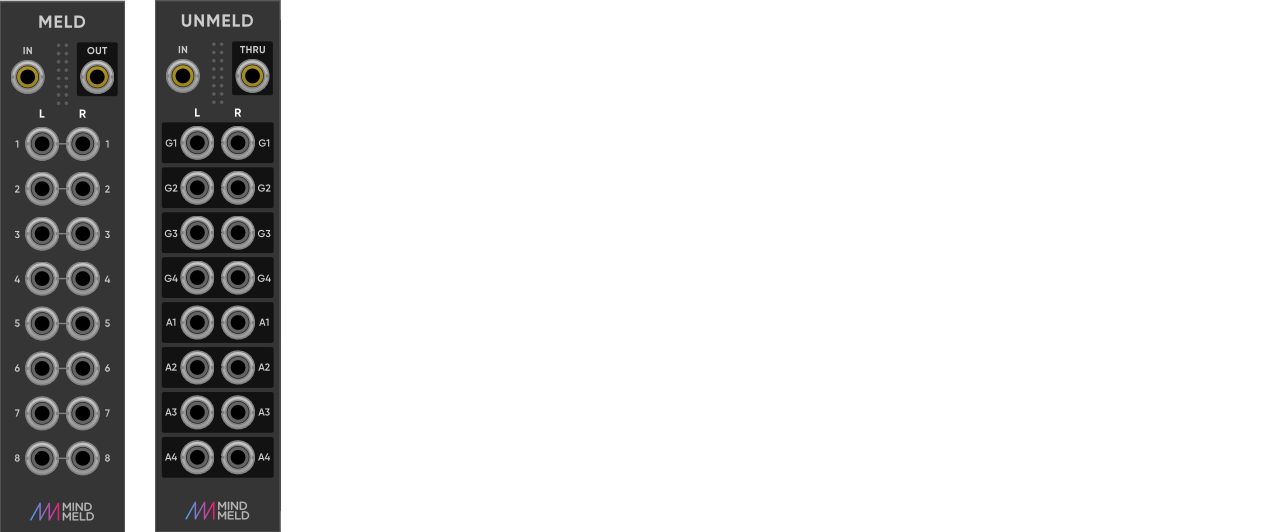
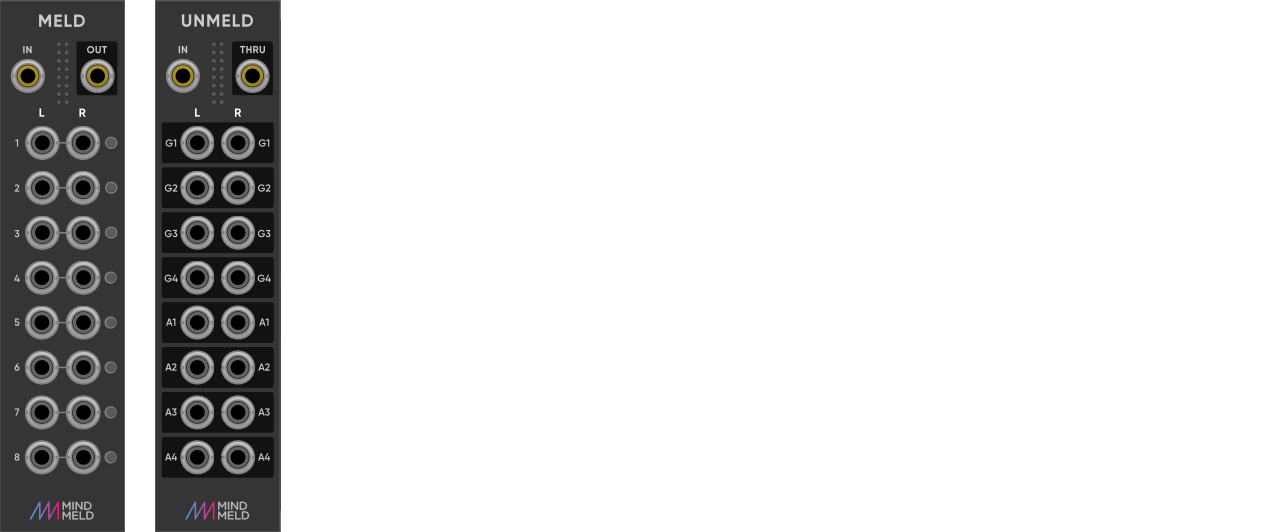
prepare github manual update, in comments for now

diff --git a/README.md b/README.md
@@ -8,6 +8,7 @@ Version 1.1.2
 
 [//]: # (!!!!!UPDATE VERSION NUMBER IN PLUGIN.JSON ALSO!!!!!   140% Zoom for pngs, all size of MixMaster.png, use transparency)
 
+
 # Modules <a id="modules"></a>
 
 The following modules are part of the MindMeld module pack.
@@ -16,6 +17,15 @@ The following modules are part of the MindMeld module pack.
 
 * [AuxSpander](#auxspander): 4-aux FX bus expander for MixMaster, see MixMaster manual above.
 
+<!---
+
+* [MixMasterJr](#mixmasterjr): 8-track stereo mixer with 2 group busses, see MixMaster manual above.
+
+* [AuxSpanderJr](#auxspanderjr): 4-aux FX bus expander for MixMasterJr, see MixMaster manual above.
+
+* [Meld / Unmeld](#meldunmeld): Utility modules for MixMaster and MixMasterJr.
+
+-->
 
 ## MixMaster <a id="mixmaster"></a>
 
@@ -53,8 +63,31 @@ Many labels contain separate menus that are different from the module's main men
 
 4-aux FX bus expander for MixMaster, must be placed immediately to the right of the MixMaster module.
 
+<!---
 
-# Videos <a id="auxspander"></a>
+## MixMasterJr <a id="mixmasterjr"></a>
+
+![IM](res/img/MixMasterJr.png)
+
+A smaller 8-track version of MixMaster, with 2 group busses. Functionality and options are identical to those found in MixMaster.
+
+
+## AuxSpanderJr <a id="auxspanderjr"></a>
+
+![IM](res/img/AuxspanderJr.png)
+
+4-aux FX bus expander for MixMasterJr, must be placed immediately to the right of the MixMasterJr module. Functionality and options are identical to those found in AuxSpander.
+
+
+## Meld / Unmeld <a id="meldunmeld"></a>
+
+![IM](res/img/MeldUnmeld.png)
+
+Two utility modules to help manage direct out and insert connections. Three panel options are available in each module: 1-8, 9-16, Grp/Aux. The 8 LEDs in the right side of the Meld module can be clicked and are used to bypass an insert (red), or not (green).
+
+-->
+
+# Videos <a id="videos"></a>
 
 ### Promo
 * Eurikon (Latif Karoumi), [MindMeld Modular - Mixmaster for VCV Rack](https://www.youtube.com/watch?v=8g_BwxgEuSw)
